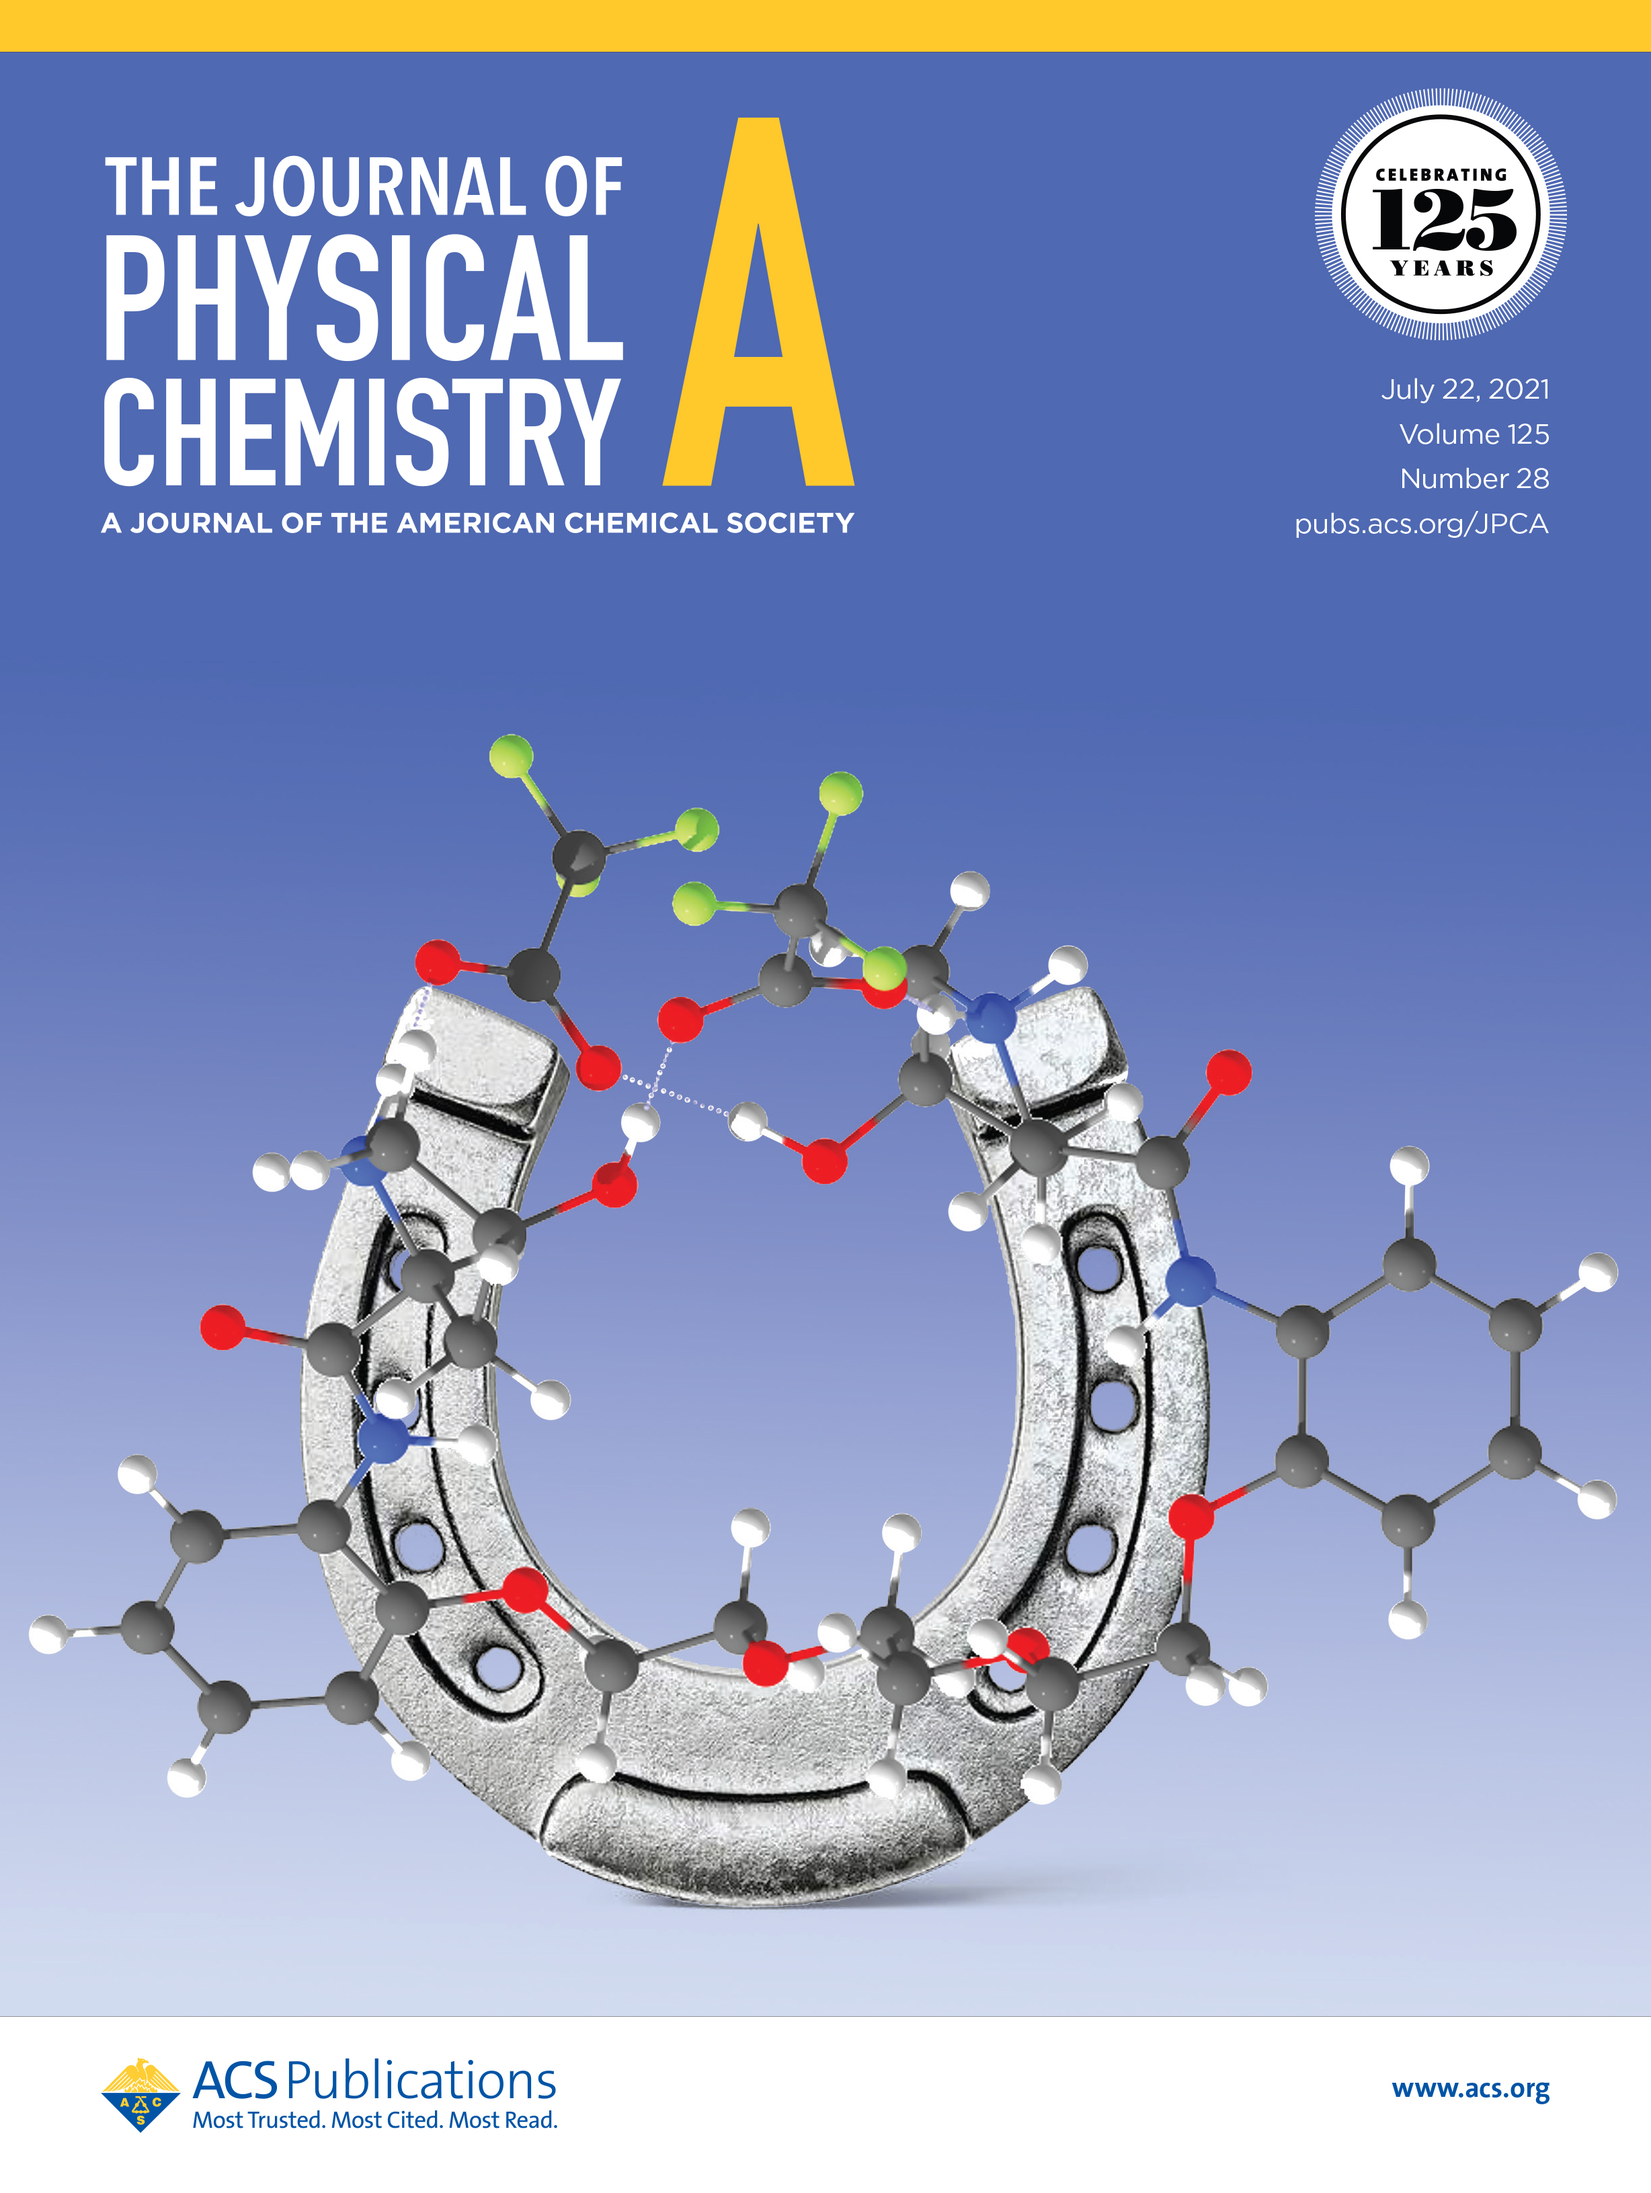
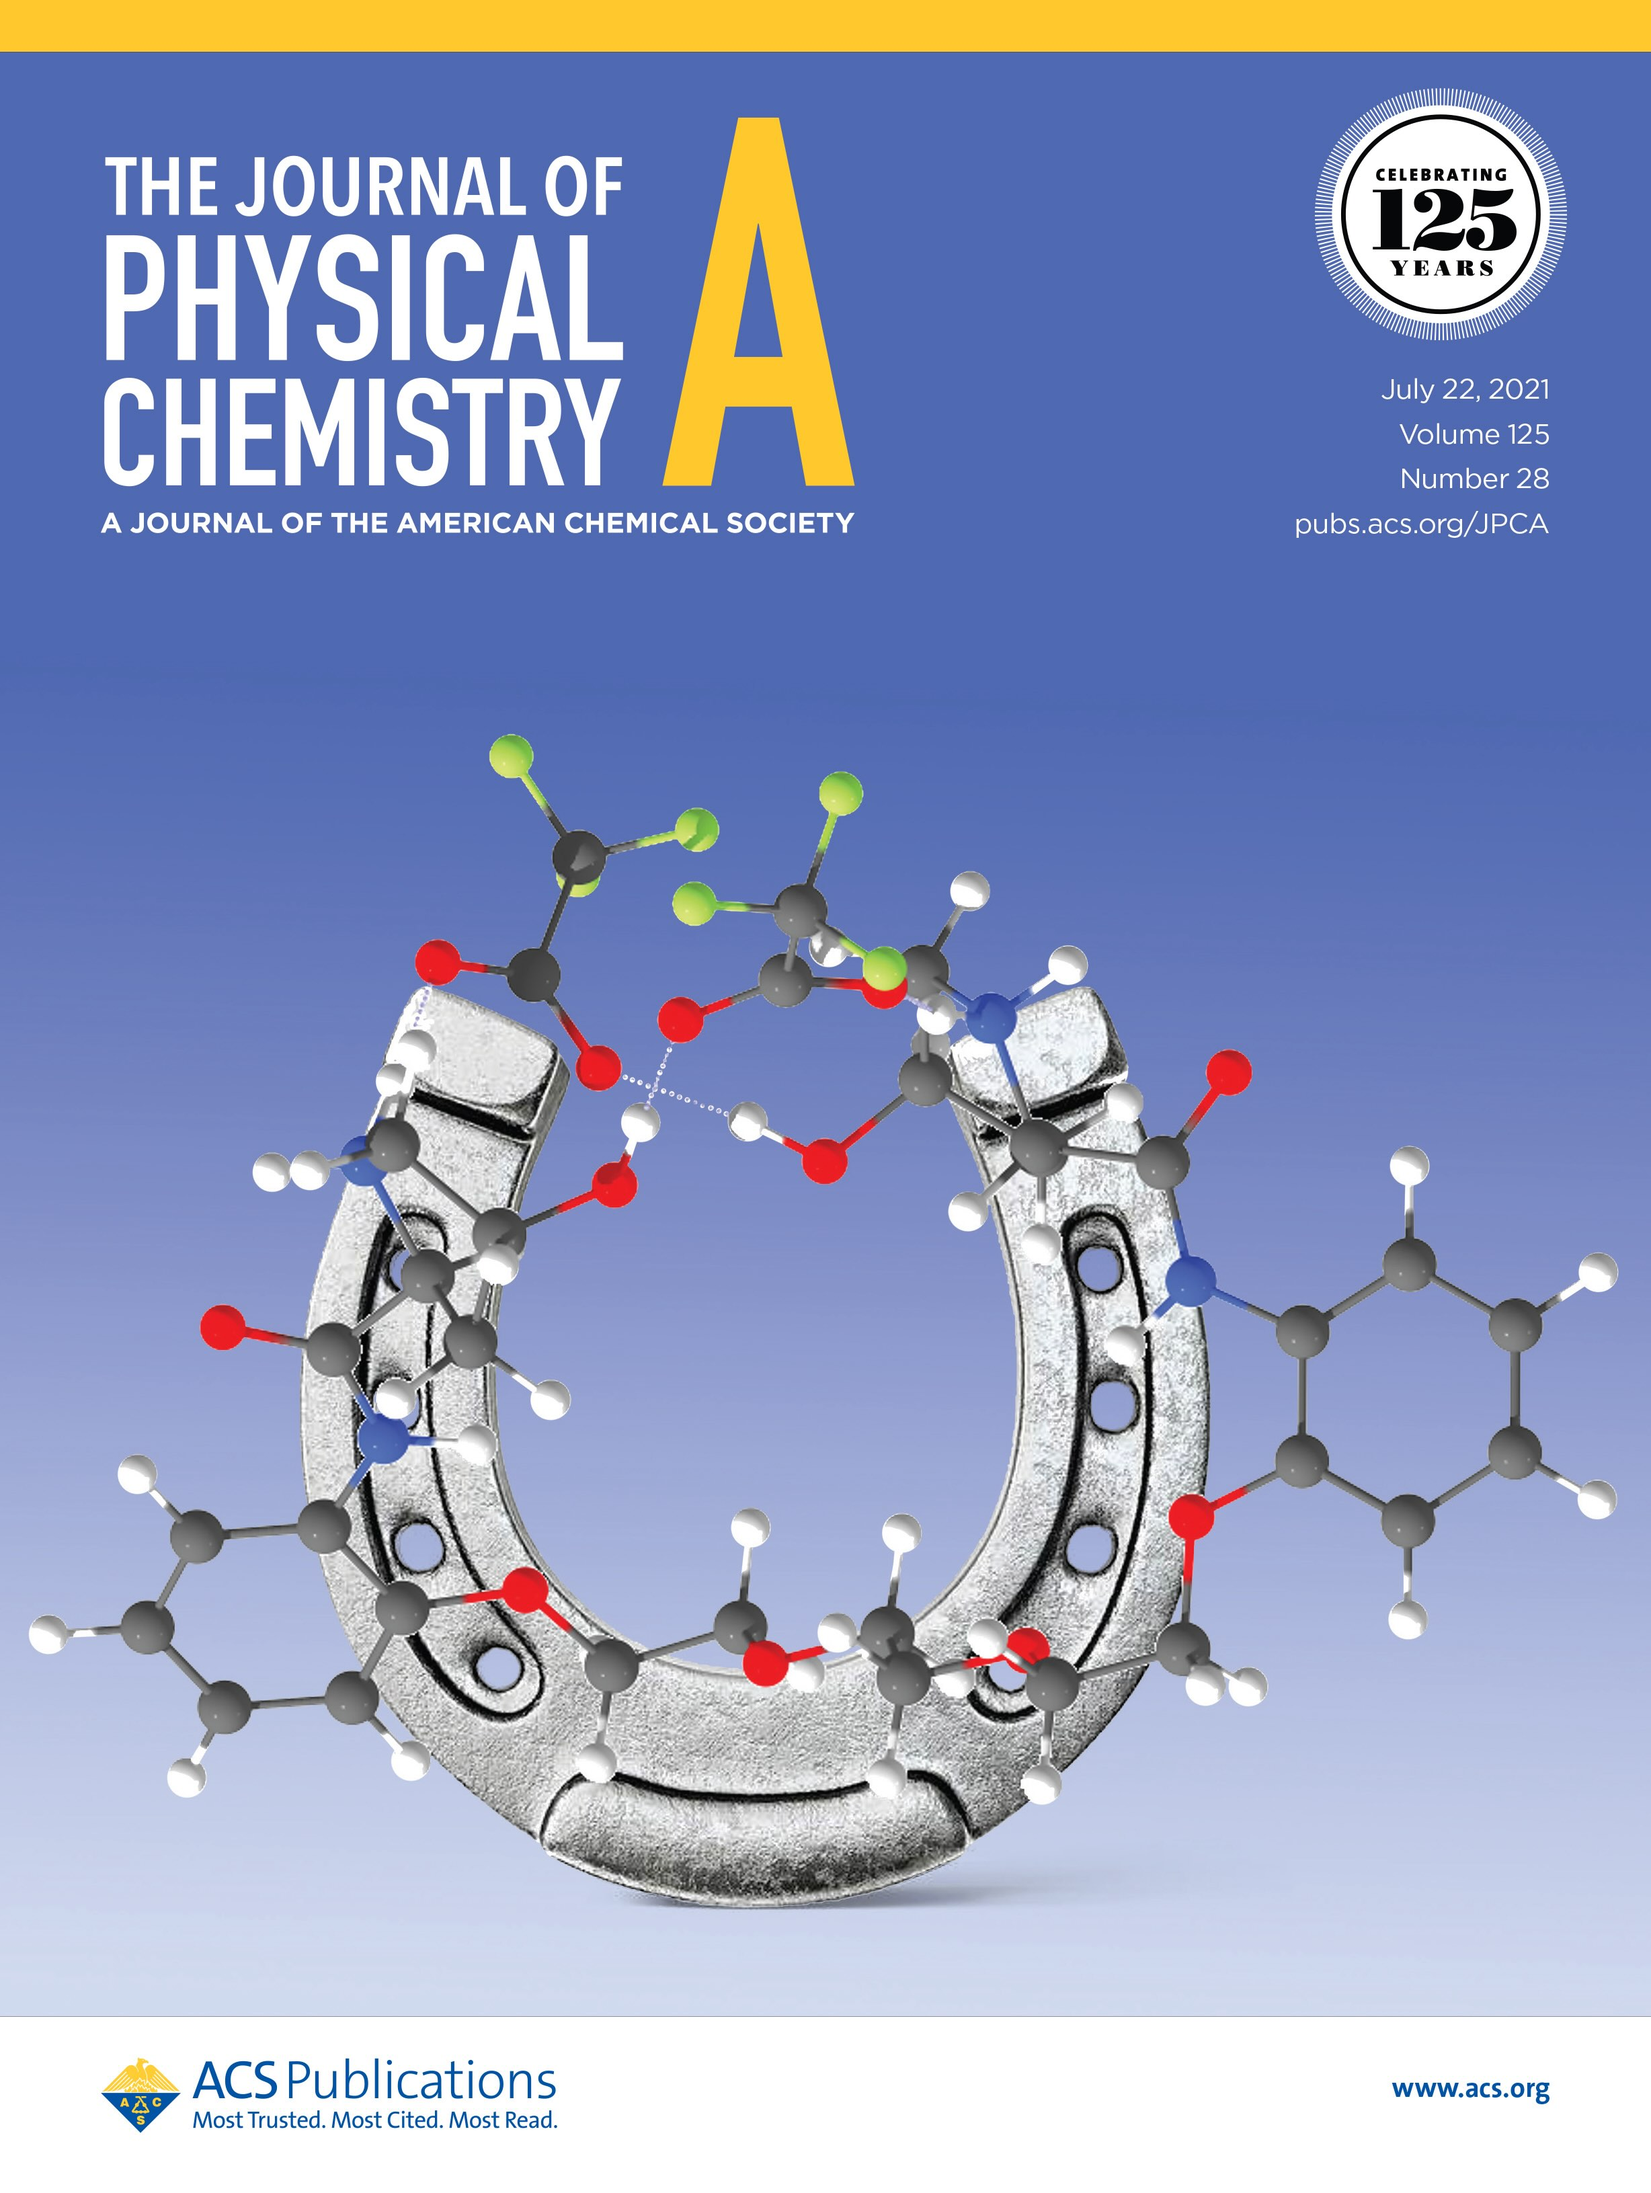
reduced file sizes

Changed region(s): [[0.0619, 0.9289, 0.1238, 0.9598]]

diff --git a/publications.html b/publications.html
@@ -232,7 +232,7 @@
                 </td>
                 
                 <td class="publication-image">
-                    <img src="pubs/covers/chem_2022_8_5.gif" alt="Publication Image">
+                    <img src="pubs/covers/chem_2022_8_5.jpg" alt="Publication Image">
                 </td>
             </tr>
             
